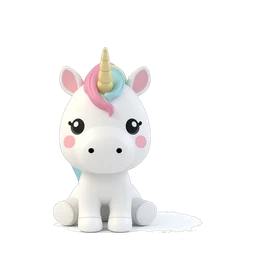
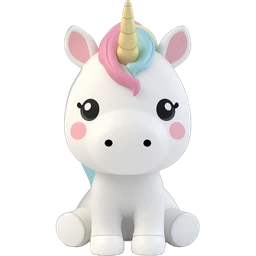
Retall net de les imatges i portades noves
Claude-Session: https://claude.ai/code/session_01Dji37gdNrhYB1gYsGJkiN4

Changed region(s): [[0.1875, 0.0, 0.7812, 1.0], [0.3438, 0.5625, 0.375, 0.625]]

diff --git a/respira.html b/respira.html
@@ -46,7 +46,7 @@ p.sub{font-size:clamp(17px,3.4vw,22px);max-width:520px}
 .anell .fons{stroke:#ffffffaa}
 .anell .prog{stroke:#a98aff;stroke-dasharray:1000;stroke-dashoffset:1000}
 #pj{width:62%;height:62%;display:flex;align-items:center;justify-content:center;transform:scale(.8);
-  transition-property:transform;transition-timing-function:ease-in-out;filter:drop-shadow(0 6px 0 #ffffffaa) drop-shadow(0 14px 14px #6a4fb055)}
+  transition-property:transform;transition-timing-function:ease-in-out;filter:drop-shadow(0 14px 14px #6a4fb040)}
 #pj svg,#pj img{width:100%;height:100%;object-fit:contain}
 .ulls-tancats{display:none}
 .dorm .ulls-oberts{display:none}.dorm .ulls-tancats{display:inline}
@@ -157,7 +157,7 @@ const PERSONATGES = {
     <ellipse cx="150" cy="128" rx="98" ry="112" fill="url(#gg)"/>
     <ellipse cx="108" cy="70" rx="18" ry="30" fill="#fff" opacity=".55" transform="rotate(-25 108 70)"/>
     ${cara(150,128)}</svg>` },
-  osset: { nom:'Osset', img:'img/endreca/osset.webp' },
+  osset: { nom:'Osset', img:'img/respira/osset.webp' },
 };
 
 // Ritmes: segons de cada fase
